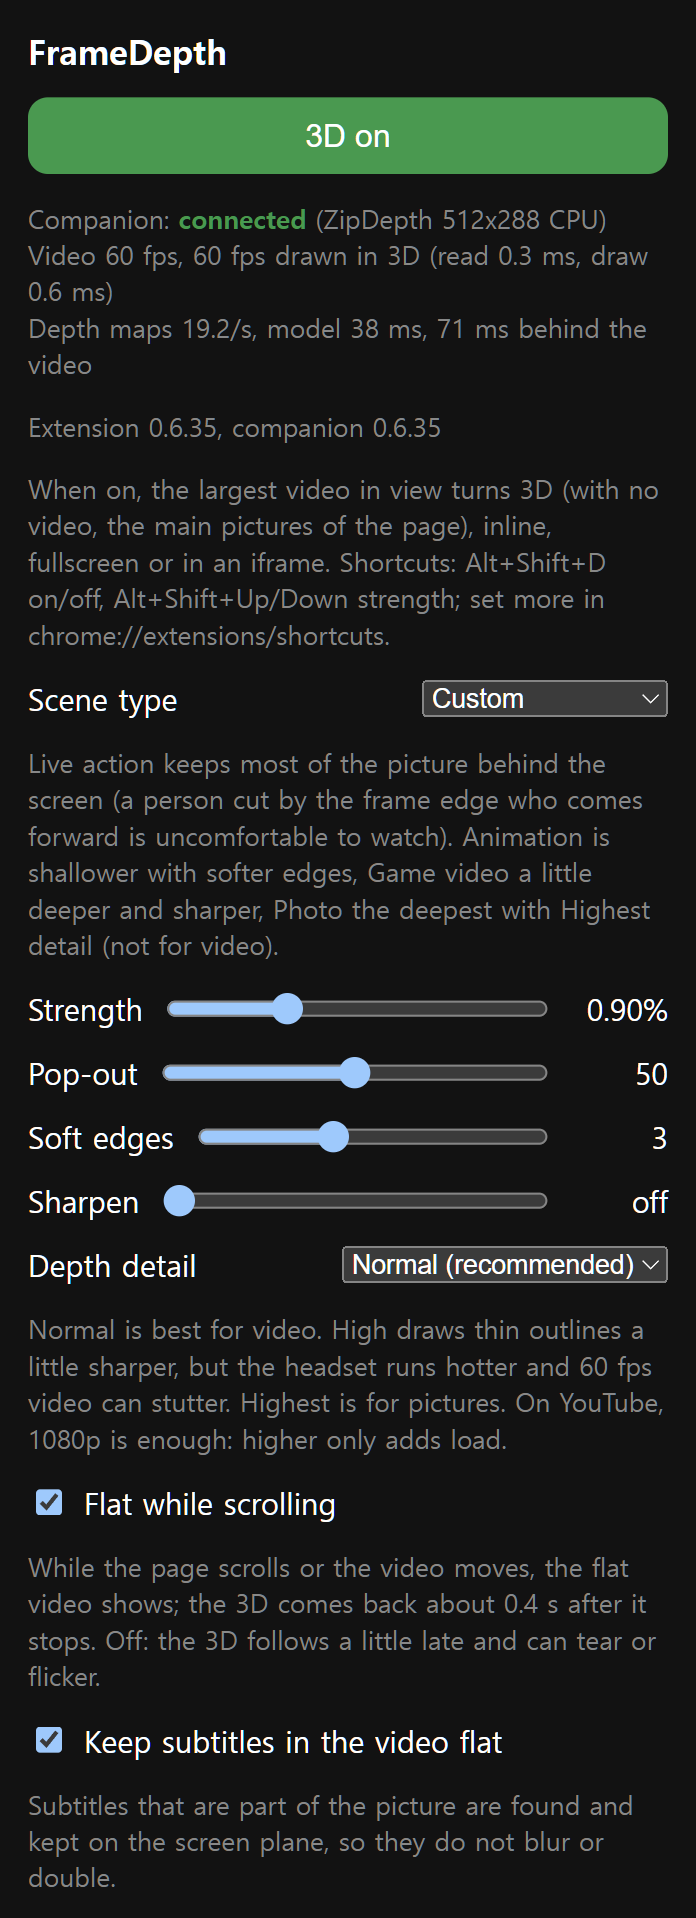
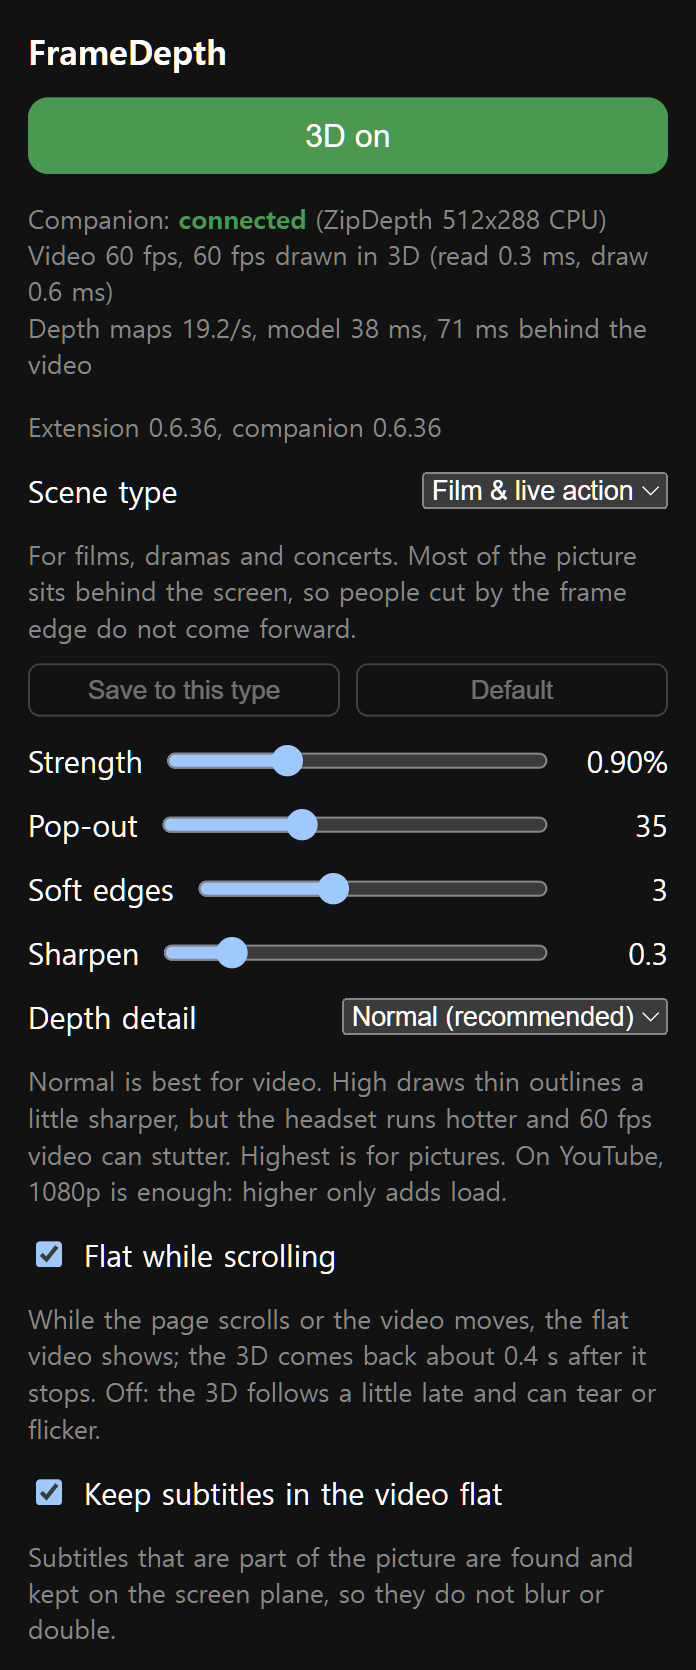
Popup: no paragraph under the version line (what turns 3D and the shortcuts are in the help), the scene type shows only its own description (0.6.36)

Changed region(s): [[0.0302, 0.0, 0.9655, 0.9964]]

diff --git a/extension/popup.js b/extension/popup.js
@@ -19,6 +19,9 @@ function render(s) {
   // a scene type: save the values as it, or bring back its own
   const typed = s.preset in PRESETS, saved = typed && !!s.presetEdits[s.preset];
   $('presetTools').hidden = !typed;
+  // what the chosen type is for (Custom: nothing)
+  $('presetHelp').hidden = !typed;
+  $('presetHelp').textContent = typed ? t(PRESET_HELP[s.preset]) : '';
   $('presetSave').disabled = !s.presetChanged;
   $('presetRestore').disabled = !(s.presetChanged || saved);
   $('presetNote').hidden = !typed || !(s.presetChanged || saved);
@@ -165,6 +168,7 @@ const PRESETS = {
   photo: { strength: 1.5, popout: 50, smooth: 2, sharpen: 0.4, detail: 1 },
 };
 const PRESET_KEYS = ['strength', 'popout', 'smooth', 'sharpen', 'detail'];
+const PRESET_HELP = { movie: 'presetHelpMovie', anime: 'presetHelpAnime', game: 'presetHelpGame', photo: 'presetHelpPhoto' };
 const presetValues = (p, s) => ({ ...PRESETS[p], ...(s.presetEdits[p] || {}) });
 // Custom keeps its own values: they are kept when a scene type is chosen and
 // come back with Custom (a type's values overwrote them for good; review

diff --git a/extension/popup.html b/extension/popup.html
@@ -30,9 +30,8 @@
      status at the bottom was out of view (review 2026-11-01) -->
 <p class="status" id="status"></p>
 <p class="hint" id="version"></p>
-<p class="hint" data-i18n="intro"></p>
 <div class="row"><label for="preset" data-i18n="preset"></label><select id="preset"><option value="custom" data-i18n="presetCustom"></option><option value="movie" data-i18n="presetMovie"></option><option value="anime" data-i18n="presetAnime"></option><option value="game" data-i18n="presetGame"></option><option value="photo" data-i18n="presetPhoto"></option></select></div>
-<p class="hint" data-i18n="presetHelp"></p>
+<p class="hint" id="presetHelp" hidden></p>
 <div class="tools" id="presetTools" hidden><button id="presetSave" data-i18n="presetSave"></button><button id="presetRestore" data-i18n="presetRestore"></button></div>
 <p class="hint" id="presetNote" hidden></p>
 <div class="row"><label for="strength" data-i18n="strength"></label><input id="strength" type="range" min="0" max="3" step="0.05"><span class="val" id="strengthVal"></span></div>

diff --git a/CHANGELOG.md b/CHANGELOG.md
@@ -1,5 +1,11 @@
 # Changelog
 
+## 0.6.36
+
+- Popup: the paragraph under the version line is gone (what turns 3D and the
+  shortcuts are in "What the settings do"); the scene type shows only the
+  chosen type's description
+
 ## 0.6.35 — first public release
 
 - Turns the largest video in view in Chrome on the Steam Frame into 3D, in
